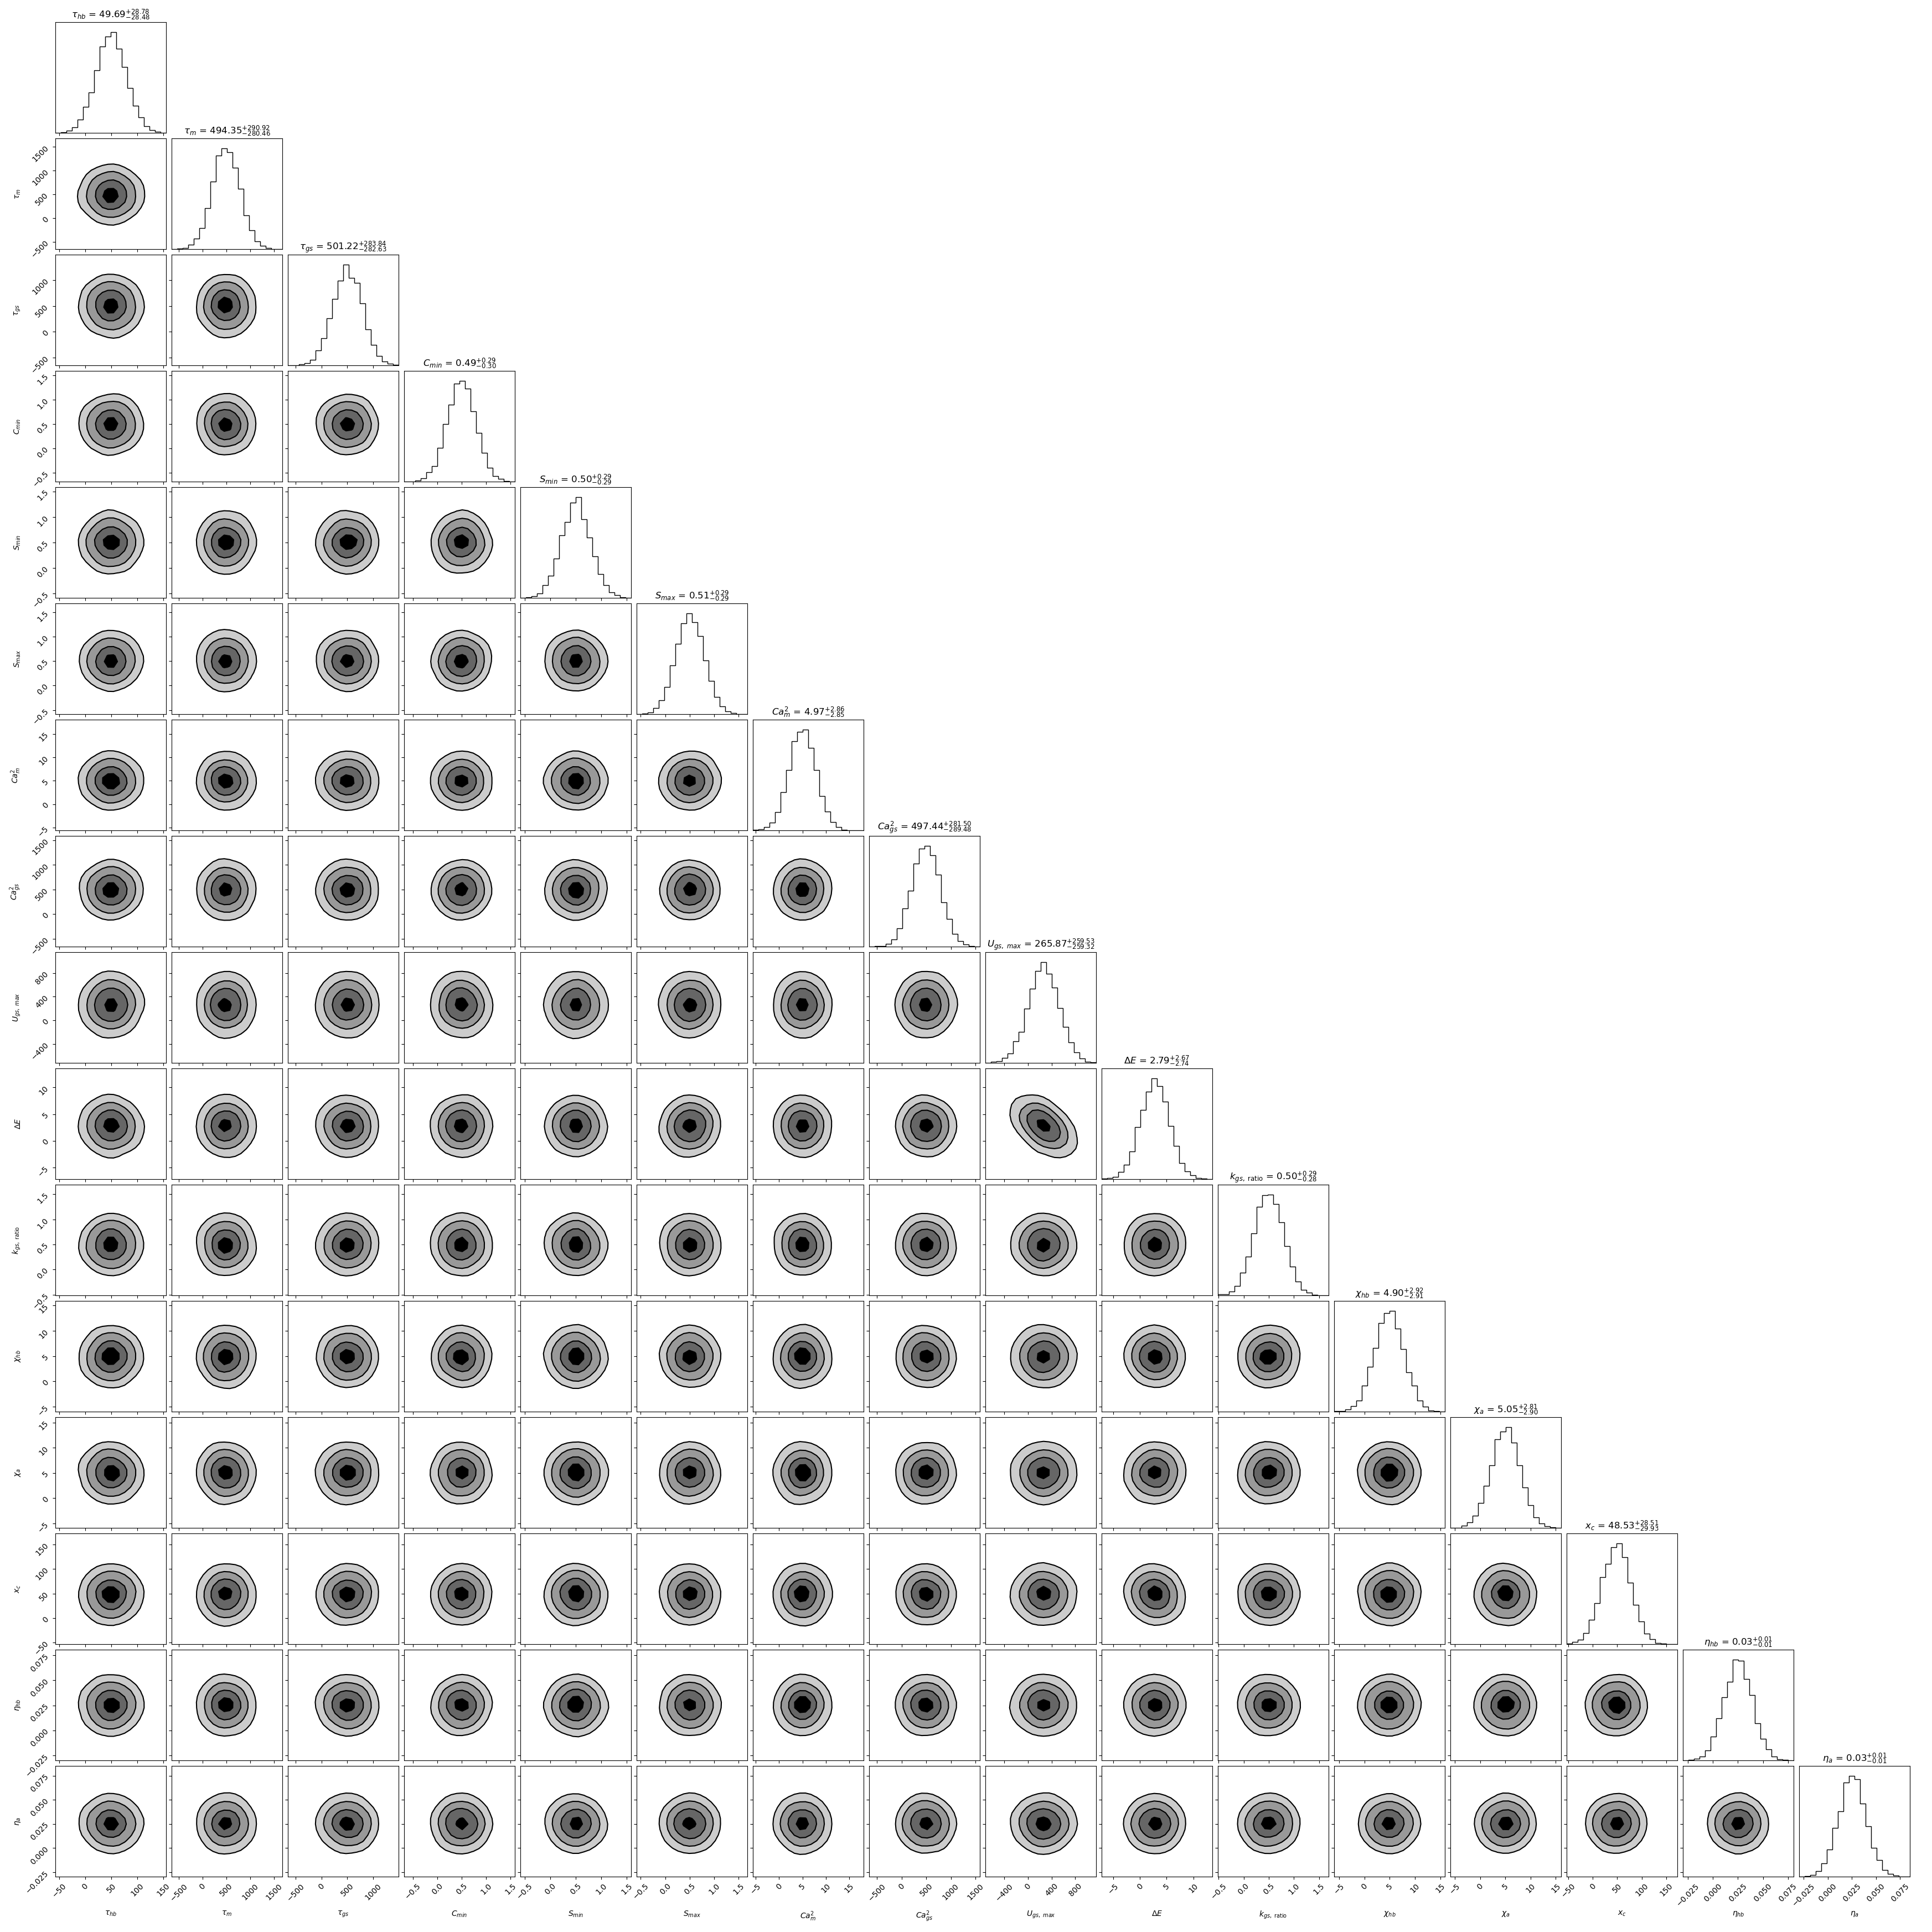
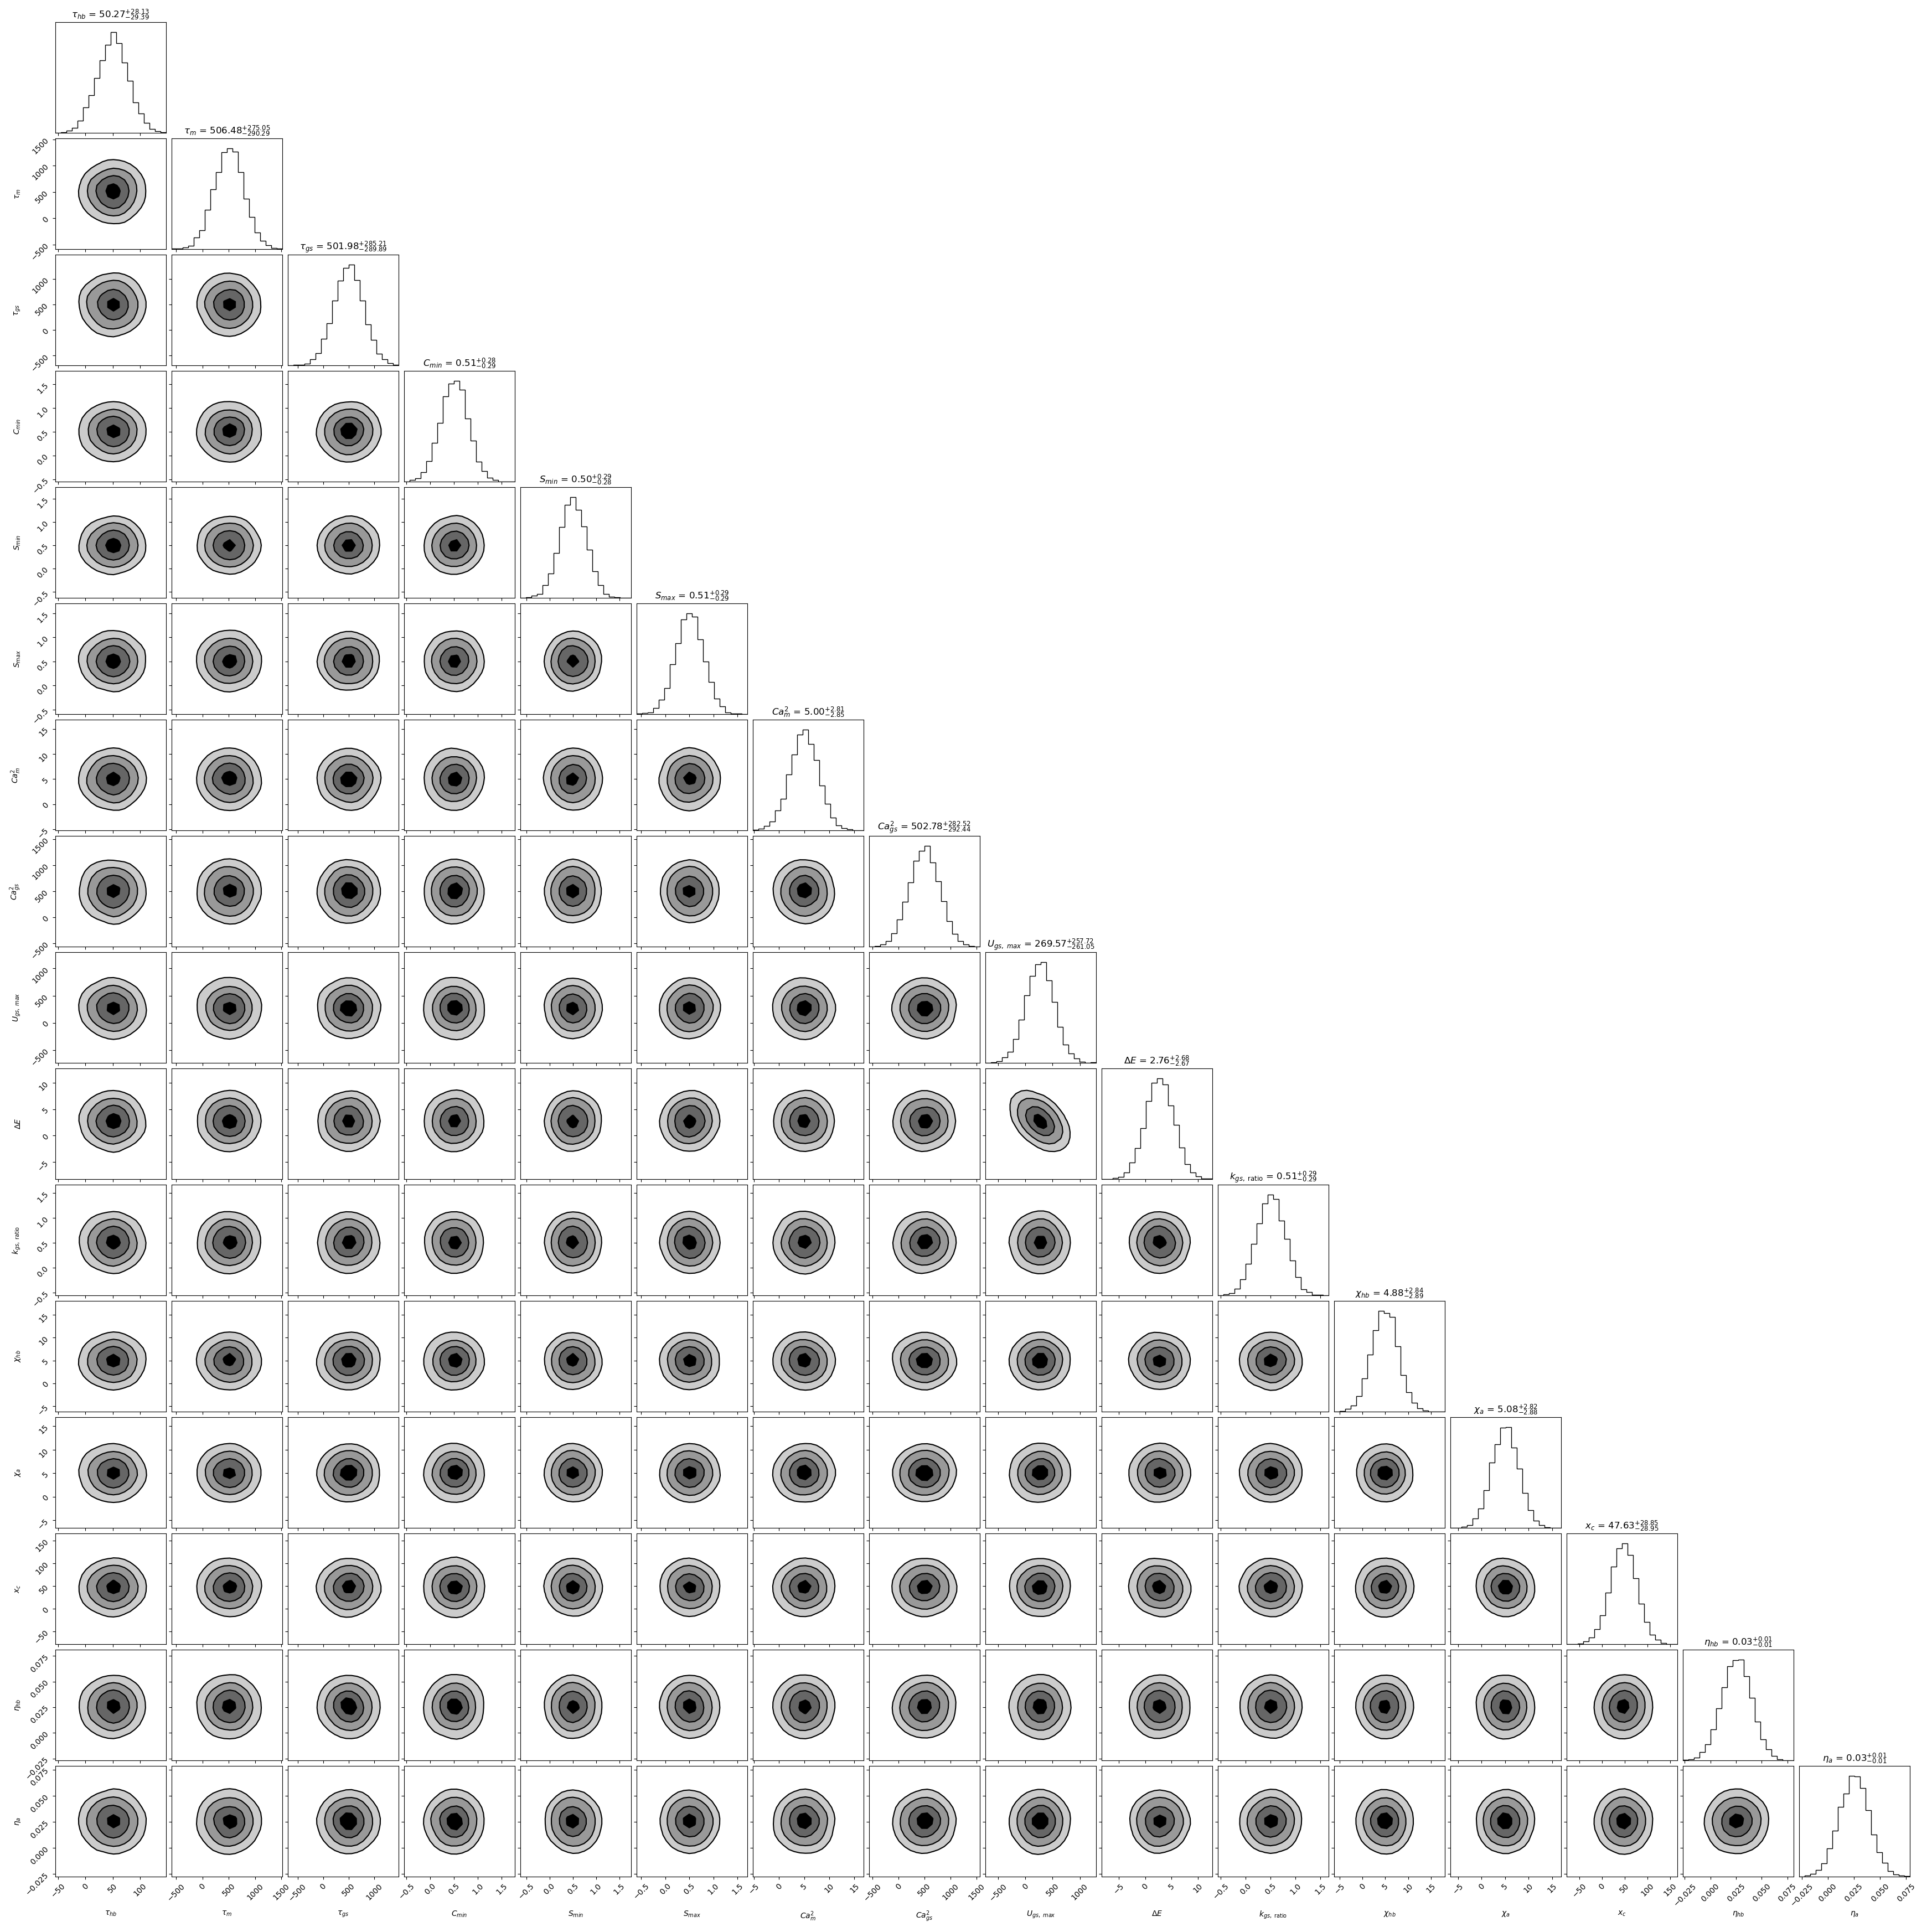
implementing nadrowski model to see if nn can train on it better

diff --git a/core/Models/nadrowski_model.py b/core/Models/nadrowski_model.py
@@ -1,0 +1,91 @@
+import torch
+
+K_B: float = 1.38e-23 # m^2 kg s^-2 K^-1
+
+class NadrowskiModel:
+    def __init__(self, lam: torch.Tensor, lam_y: torch.Tensor, tau: torch.Tensor, tau_t: torch.Tensor,
+                 k_gs: torch.Tensor, k_sp: torch.Tensor, d: torch.Tensor, gamma: torch.Tensor,
+                 c_0: torch.Tensor, n: torch.Tensor, n_a: torch.Tensor, delta_e: torch.Tensor, temp_eff: torch.Tensor,
+                 eta_hb: torch.Tensor, eta_a: torch.Tensor, force: torch.Tensor,
+                 batch_size: int, device: torch.device = torch.device('cpu'), dtype: torch.dtype = torch.float32):
+        # sde model parameters
+        self.batch_size = batch_size
+        self.device = device
+        self.dtype = dtype
+
+        # parameters
+        self.lam = lam.to(self.device)
+        self.lam_y = lam_y.to(self.device)
+        self.tau = tau.to(self.device)
+        self.tau_t = tau_t.to(self.device)
+        self.k_gs = k_gs.to(self.device)
+        self.k_sp = k_sp.to(self.device)
+        self.d = d.to(self.device)
+        self.gamma = gamma.to(self.device)
+        self.c_0 = c_0.to(self.device)
+        self.n = n.to(self.device)
+        self.n_a = n_a.to(self.device)
+        self.delta_e = delta_e.to(self.device)
+        self.temp_eff = temp_eff.to(self.device)
+        self.eta_hb = eta_hb.to(self.device)
+        self.eta_a = eta_a.to(self.device)
+
+        # force parameters
+        self.force = force.to(self.device)
+
+        # subsuming parameters
+        self.d_swing = self.d / self.gamma
+        self.a = torch.exp((self.delta_e + self.k_gs * self.d_swing**2 / (2 * self.n)) / (K_B * self.temp_eff))
+        self.delta = self.n * K_B * self.temp_eff / (self.k_gs * self.d)
+
+    def f(self, x, t) -> torch.Tensor:
+        dx_hb = self._x_hb_dot(x[:, 0], x[:, 1], x[:, 3], x[:, 4])
+        dx_a = self._x_a_dot(x[:, 0], x[:, 1], x[:, 2], x[:, 3], x[:, 4])
+        dp_m = self._p_m_dot(x[:, 2], x[:, 4])
+        dp_gs = self._p_gs_dot(x[:, 3], x[:, 4])
+        dp_t = self.__p_t_dot(x[:, 0], x[:, 1], x[:, 3], x[:, 4])
+        dx_hb = dx_hb + self.force[:, t] / self.tau_hb
+        dx = torch.stack((dx_hb, dx_a, dp_m, dp_gs, dp_t), dim=1)
+        return dx
+
+    def g(self) -> torch.Tensor:
+        hb_noise = self._hb_noise()
+        a_noise = self._a_noise()
+        dsigma = torch.stack((hb_noise, a_noise, torch.zeros_like(hb_noise), torch.zeros_like(hb_noise), torch.zeros(hb_noise)), dim=0)
+        dsigma = torch.atleast_2d(torch.transpose(dsigma, -1, 0))
+        return torch.diag_embed(dsigma)
+
+    # --- SDEs --- #
+    def _x_hb_dot(self, x_hb, x_a, p_gs, p_t) -> torch.Tensor:
+        x_gs = self.chi_hb * x_hb - self.chi_a * x_a + self.x_c
+        k_gs = 1 - p_gs * self.k_gs_offset
+        f_gs = k_gs * (x_gs - p_t)
+        return -1 * (f_gs + x_hb) / self.tau_hb
+
+    def _x_a_dot(self, x_hb, x_a, p_m, p_gs, p_t) -> torch.Tensor:
+        c = 1 - p_m * self.c_offset
+        s = self.s_min + p_m * self.s_offset
+        x_gs = self.chi_hb * x_hb - self.chi_a * x_a + self.x_c
+        k_gs = 1 - p_gs * self.k_gs_offset
+        f_gs = k_gs * (x_gs - p_t)
+        return self.s_max * s * (f_gs - x_a) - self.c_max * c
+
+    def _p_m_dot(self, p_m, p_t) -> torch.Tensor:
+        return (self.ca2_m * p_t * (1 - p_m) - p_m) / self.tau_m
+
+    def _p_gs_dot(self, p_gs, p_t) -> torch.Tensor:
+        return (self.ca2_gs * p_t * (1 - p_gs) - p_gs) / self.tau_gs
+
+    def __p_t_dot(self, x_hb, x_a, p_gs, p_t) -> torch.Tensor:
+        k_gs = 1 - p_gs * self.k_gs_offset
+        x_gs = self.chi_hb * x_hb - self.chi_a * x_a + self.x_c
+        arg = -1 * self.u_gs_max * k_gs * (x_gs - 0.5)
+        p_t0 = 1 / (1 + self.E_exp * torch.exp(arg))
+        return (p_t0 - p_t) / self.tau_t
+
+    # --- NOISE --- #
+    def _hb_noise(self) -> torch.Tensor:
+        return self.eta_hb / self.tau_hb
+
+    def _a_noise(self) -> torch.Tensor:
+        return -1 * self.s_max * self.s_min * self.eta_a

diff --git a/core/SBI/Priors/sbi_prior_wrapper.py b/core/SBI/Priors/sbi_prior_wrapper.py
@@ -1,0 +1,17 @@
+import torch
+from torch import distributions as dist
+
+class SBIPriorWrapper(dist.Distribution):
+    def __init__(self, gen_dist: torch.distributions.Distribution):
+        self.gen_dist = gen_dist
+        super().__init__(batch_shape=gen_dist.batch_shape, event_shape=gen_dist.event_shape)
+
+    @property
+    def support(self):
+        return dist.constraints.independent(dist.constraints.real, 1)
+
+    def log_prob(self, value):
+        return self.gen_dist.log_prob(value)
+
+    def sample(self, sample_shape=torch.Size()):
+        return self.gen_dist.sample(sample_shape)

diff --git a/core/app.py b/core/app.py
@@ -17,10 +17,10 @@ from sbi import utils
 from sbi.inference import SNPE
 from sbi.analysis import pairplot
 from sbi.neural_nets import posterior_nn
-from sbi.neural_nets.embedding_nets import CNNEmbedding
 
-from .Helpers import helpers, model_helpers, visualizers, file_manager
-from .SBI import bp_prior, statistics, embedded_network
+from .Helpers import helpers, visualizers, file_manager
+from .SBI import statistics, embedded_network
+from .SBI.Priors import bp_prior, sbi_prior_wrapper
 from .Simulator import bp_simulator
 
 if torch.cuda.is_available():
@@ -177,7 +177,7 @@ def run():
     embedded_net = embedded_network.EmbeddedNet(input_dim, output_dim, layer_dims)
 
     # set up snpe with embedded network
-    priors = []
+    '''priors = []
     prior_bounds = []
     for vals in params.values():
         prior_bounds.append(vals[1])
@@ -186,10 +186,11 @@ def run():
     for curr_bounds in prior_bounds:
         curr_prior = utils.BoxUniform(low=torch.ones(1) * curr_bounds[0], high=torch.ones(1) * curr_bounds[1])
         priors.append(curr_prior)
-    wide_prior = utils.MultipleIndependent(priors, device=str(DEVICE))
+    wide_prior = utils.MultipleIndependent(priors, device=str(DEVICE))'''
+    safe_prior = sbi_prior_wrapper.SBIPriorWrapper(prior)
 
     neural_posterior = posterior_nn(model='maf', embedding_net=embedded_net)
-    inference = SNPE(prior=wide_prior, density_estimator=neural_posterior, device=str(DEVICE))
+    inference = SNPE(prior=safe_prior, density_estimator=neural_posterior, device=str(DEVICE))
 
     # train the density estimator
     density_estimator = inference.append_simulations(thetas, summary_stats).train(training_batch_size=int(2**7))